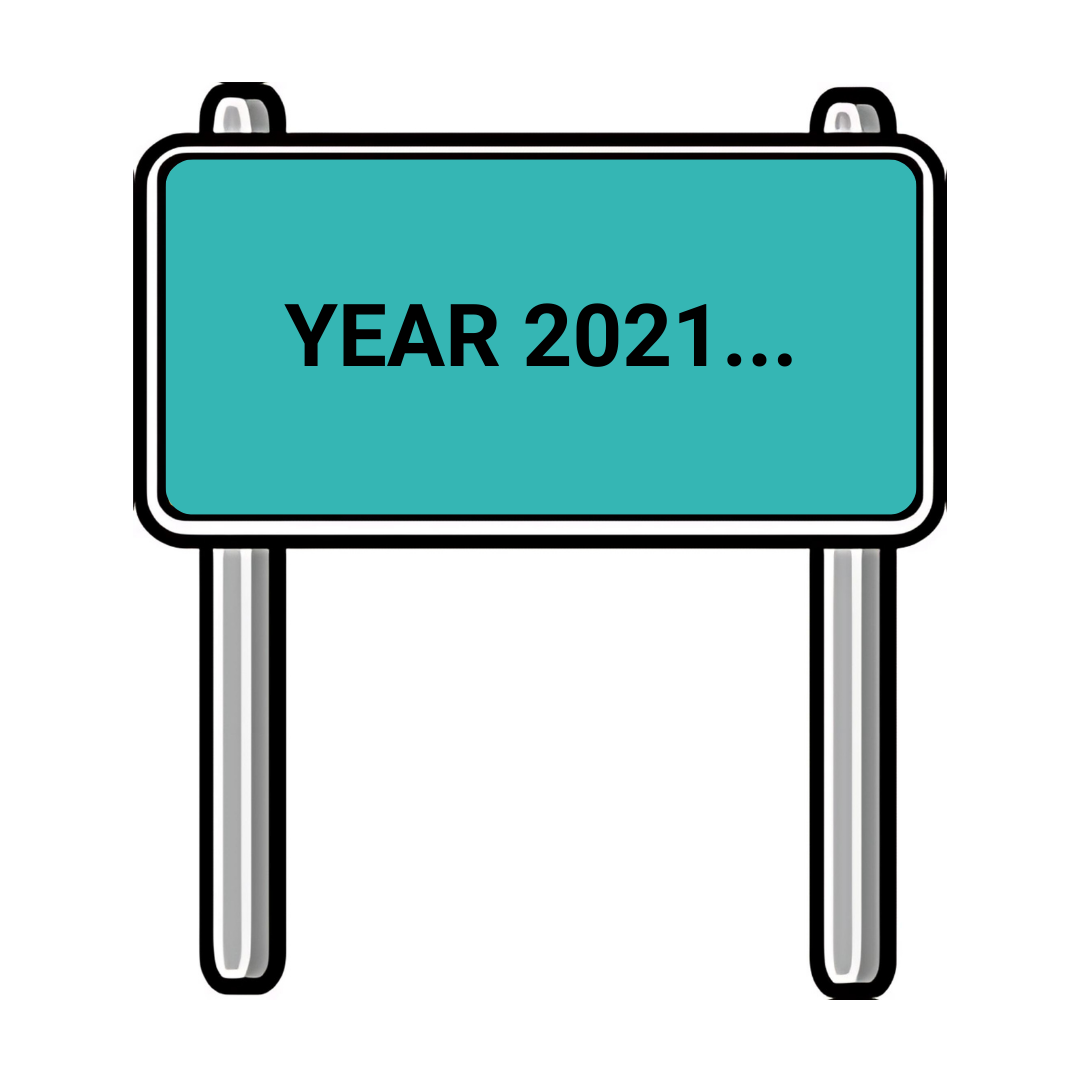
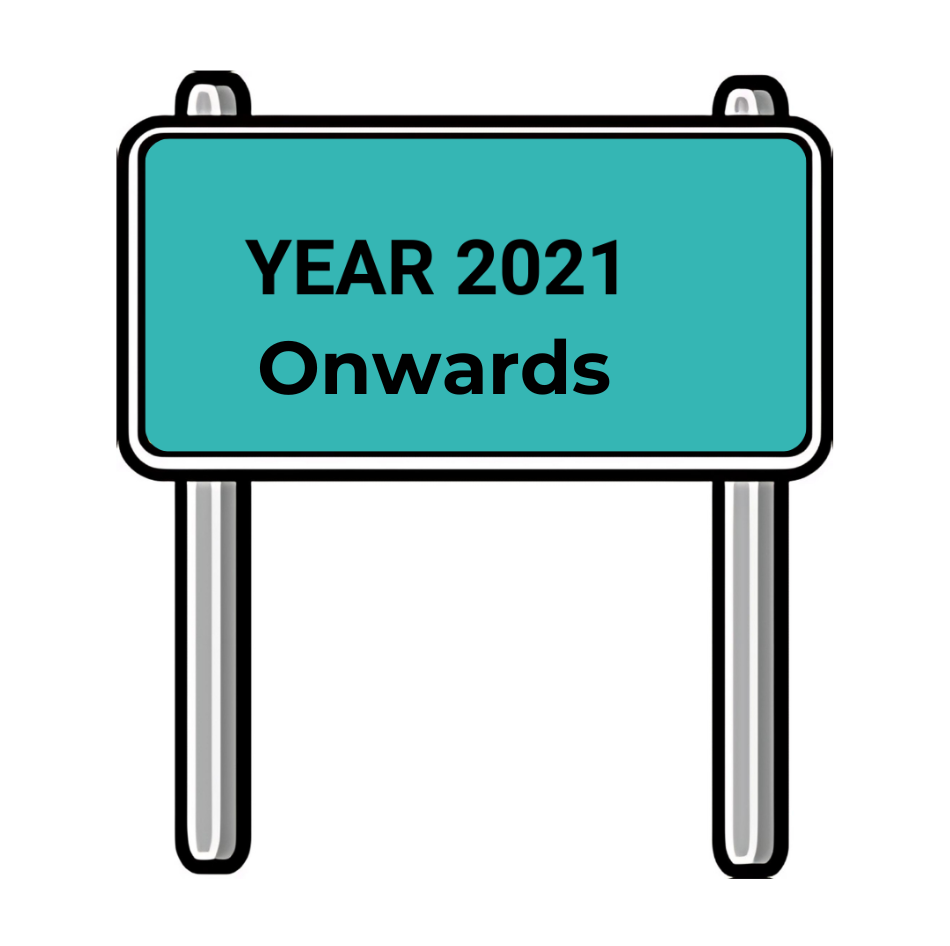
latest changes

diff --git a/src/components/homepage/VideoSection.jsx b/src/components/homepage/VideoSection.jsx
@@ -31,6 +31,33 @@ const VideoSection = () => {
           ></iframe>
         </div>
       </div>
+      <div className="lg:grid lg:grid-cols-4">
+        <div className="pl-10 pb-10">
+          <iframe
+            width="560"
+            height="315"
+            src="https://www.youtube.com/embed/CPOoPYO_OVM?si=m-WFmBeALNFptQ-n"
+            title="YouTube video player"
+            frameborder="0"
+            allow="accelerometer; autoplay; clipboard-write; encrypted-media; gyroscope; picture-in-picture; web-share"
+            referrerpolicy="strict-origin-when-cross-origin"
+            allowfullscreen
+          ></iframe>
+        </div>
+        <div className=" col-start-3 col-span-2">
+          <h1 className="text-4xl">MEDICAMEN BIOTECH LIMITED</h1>
+          <p className="text-4xl font-bold uppercase">
+            has constantly strived to be on the path of growth
+          </p>
+          <p>
+            on the strength of its brilliant human resource, world class
+            facilities and a global vision of its Management.From being a purely
+            Formulation manufacturer of general products, the Company has
+            diversified into setting up a state-of-the-art R&D Centre followed
+            by a most modern API manufacturing facility.
+          </p>
+        </div>
+      </div>
     </div>
   );
 };

diff --git a/src/components/common/Footer/Footer.jsx b/src/components/common/Footer/Footer.jsx
@@ -112,11 +112,11 @@ const Footer = () => {
               <div className="flex gap-6 xl:gap-12 max-xl:justify-center">
                 <ul className="text-gray-600 transition-all duration-500 grid gap-6">
                   <li className="hover:text-secondary">
-                    <Link href="/product-and-therepy/product/cancer-care">
+                    <Link href="/product-and-therepy/cancer-care">
                       Cancer Care
                     </Link>
                   </li>
-                  <li className="hover:text-secondary">
+                  {/* <li className="hover:text-secondary">
                     <Link href="/product-and-therepy/product/cardiology">
                       Cardiology
                     </Link>
@@ -133,7 +133,7 @@ const Footer = () => {
                     <Link href="/product-and-therepy/product/pain-management">
                       Pain Management
                     </Link>
-                  </li>
+                  </li> */}
                 </ul>
               </div>
             </div>

diff --git a/src/app/who-we-are/corporate/key-milestones/page.jsx b/src/app/who-we-are/corporate/key-milestones/page.jsx
@@ -97,7 +97,7 @@ const page = () => {
         <div className="flex justify-center lg:mx-20 mx-4 mt-10">
           <div className="lg:flex">
             <Image
-              src="/chronology/sign1.png"
+              src="/chronology/sign3.png"
               width={200}
               height={300}
               alt=""
@@ -124,10 +124,6 @@ const page = () => {
               <div>
                 <div>&#8226;2020</div>
                 <p>Global API Facility started– Dahej API Plant</p>
-              </div>
-              <div>
-                <div>&#8226;2000</div>
-                <p>ISO certification – Bhiwadi FDF Plant</p>
               </div>
             </div>
           </div>

diff --git a/src/app/who-we-are/corporate/chairman-desk/page.jsx b/src/app/who-we-are/corporate/chairman-desk/page.jsx
@@ -29,8 +29,8 @@ const page = () => {
             towards providing high quality, yet affordable, healthcare to
             patients world over. We also perceive opportunities for introducing
             quality medicines, in both Oncology & Non-Oncology categories, into
-            highly regulated markets of EU, US, Japan, Australia etcetera to
-            enable them reduce their healthcare costs.
+            highly regulated markets of EU, US, Japan, Australia etc. to enable
+            them reduce their healthcare costs.
           </div>
           <br />
           <div>
